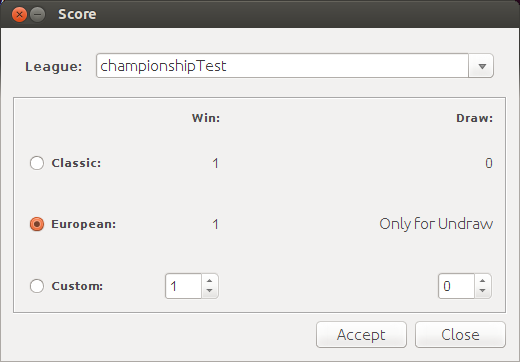
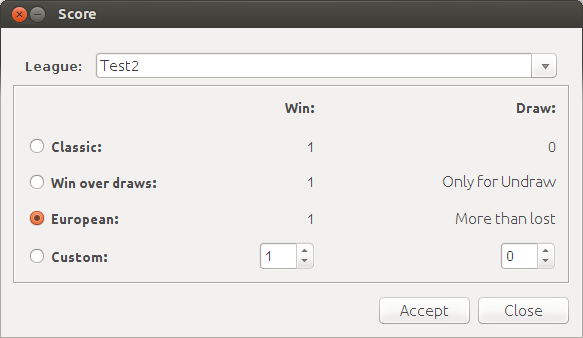
New score rules added to manual.

diff --git a/kendotournament-gui/src/main/java/com/softwaremagico/ktg/gui/ChooseScore.java b/kendotournament-gui/src/main/java/com/softwaremagico/ktg/gui/ChooseScore.java
@@ -30,7 +30,6 @@ import com.softwaremagico.ktg.language.Translator;
 import com.softwaremagico.ktg.persistence.TournamentPool;
 import com.softwaremagico.ktg.tournament.ScoreType;
 import com.softwaremagico.ktg.tournament.TournamentScore;
-
 import java.awt.Toolkit;
 import java.sql.SQLException;
 import java.util.List;
@@ -59,7 +58,7 @@ public class ChooseScore extends javax.swing.JFrame {
         trans = LanguagePool.getTranslator("gui.xml");
         this.setTitle(trans.getTranslatedText("Hits"));
         ClassicRadioButton.setText(trans.getTranslatedText("ClassicRadioButton"));
-        InternationalRadioButton.setText(trans.getTranslatedText("InernationlRadioButton"));
+        WinOverDrawsRadioButton.setText(trans.getTranslatedText("WinOverDrawsRadioButton"));
         CustomRadioButton.setText(trans.getTranslatedText("CustomRadioButton"));
         EuropeanRadioButton.setText(trans.getTranslatedText("EuropeanRadioButton"));
         WinLabel.setText(trans.getTranslatedText("WinTag"));
@@ -79,10 +78,10 @@ public class ChooseScore extends javax.swing.JFrame {
                 return EuropeanRadioButton;
             case CLASSIC:
                 return ClassicRadioButton;
-            case INTERNATIONAL:
-                return InternationalRadioButton;
+            case WIN_OVER_DRAWS:
+                return WinOverDrawsRadioButton;
         }
-        return InternationalRadioButton;
+        return WinOverDrawsRadioButton;
     }
 
     private void selectStyle() {
@@ -106,8 +105,8 @@ public class ChooseScore extends javax.swing.JFrame {
     }
 
     private ScoreType getStyle() {
-        if (InternationalRadioButton.isSelected()) {
-            return ScoreType.INTERNATIONAL;
+        if (WinOverDrawsRadioButton.isSelected()) {
+            return ScoreType.WIN_OVER_DRAWS;
         }
         if (CustomRadioButton.isSelected()) {
             return ScoreType.CUSTOM;
@@ -168,7 +167,7 @@ public class ChooseScore extends javax.swing.JFrame {
         TournamentComboBox = new javax.swing.JComboBox();
         TournamentLabel = new javax.swing.JLabel();
         ScorePanel = new javax.swing.JPanel();
-        InternationalRadioButton = new javax.swing.JRadioButton();
+        WinOverDrawsRadioButton = new javax.swing.JRadioButton();
         CustomRadioButton = new javax.swing.JRadioButton();
         WinSpinner = new javax.swing.JSpinner();
         jLabel7 = new javax.swing.JLabel();
@@ -205,9 +204,9 @@ public class ChooseScore extends javax.swing.JFrame {
 
         ScorePanel.setBorder(javax.swing.BorderFactory.createEtchedBorder());
 
-        ScoreGroup.add(InternationalRadioButton);
-        InternationalRadioButton.setFont(new java.awt.Font("Ubuntu", 1, 14)); // NOI18N
-        InternationalRadioButton.setText("International");
+        ScoreGroup.add(WinOverDrawsRadioButton);
+        WinOverDrawsRadioButton.setFont(new java.awt.Font("Ubuntu", 1, 14)); // NOI18N
+        WinOverDrawsRadioButton.setText("Wins Over Draws");
 
         ScoreGroup.add(CustomRadioButton);
         CustomRadioButton.setFont(new java.awt.Font("Ubuntu", 1, 14)); // NOI18N
@@ -264,7 +263,7 @@ public class ChooseScore extends javax.swing.JFrame {
                 .addGroup(ScorePanelLayout.createParallelGroup(javax.swing.GroupLayout.Alignment.TRAILING, false)
                     .addGroup(ScorePanelLayout.createSequentialGroup()
                         .addGroup(ScorePanelLayout.createParallelGroup(javax.swing.GroupLayout.Alignment.LEADING)
-                            .addComponent(InternationalRadioButton)
+                            .addComponent(WinOverDrawsRadioButton)
                             .addComponent(EuropeanRadioButton)
                             .addComponent(CustomRadioButton))
                         .addGap(100, 100, 100)
@@ -277,21 +276,14 @@ public class ChooseScore extends javax.swing.JFrame {
                         .addComponent(ClassicRadioButton)
                         .addPreferredGap(javax.swing.LayoutStyle.ComponentPlacement.RELATED, javax.swing.GroupLayout.DEFAULT_SIZE, Short.MAX_VALUE)
                         .addComponent(jLabel2)))
+                .addPreferredGap(javax.swing.LayoutStyle.ComponentPlacement.RELATED, 127, Short.MAX_VALUE)
                 .addGroup(ScorePanelLayout.createParallelGroup(javax.swing.GroupLayout.Alignment.LEADING)
-                    .addGroup(ScorePanelLayout.createSequentialGroup()
-                        .addPreferredGap(javax.swing.LayoutStyle.ComponentPlacement.RELATED, 109, Short.MAX_VALUE)
-                        .addGroup(ScorePanelLayout.createParallelGroup(javax.swing.GroupLayout.Alignment.LEADING)
-                            .addComponent(InternationalUndrawLabel, javax.swing.GroupLayout.DEFAULT_SIZE, javax.swing.GroupLayout.DEFAULT_SIZE, Short.MAX_VALUE)
-                            .addGroup(ScorePanelLayout.createParallelGroup(javax.swing.GroupLayout.Alignment.LEADING)
-                                .addComponent(HierarchicalDrawLabel, javax.swing.GroupLayout.Alignment.TRAILING)
-                                .addComponent(DrawSpinner, javax.swing.GroupLayout.Alignment.TRAILING, javax.swing.GroupLayout.PREFERRED_SIZE, 56, javax.swing.GroupLayout.PREFERRED_SIZE)))
-                        .addGap(0, 2, Short.MAX_VALUE))
-                    .addGroup(javax.swing.GroupLayout.Alignment.TRAILING, ScorePanelLayout.createSequentialGroup()
-                        .addPreferredGap(javax.swing.LayoutStyle.ComponentPlacement.RELATED, javax.swing.GroupLayout.DEFAULT_SIZE, Short.MAX_VALUE)
-                        .addGroup(ScorePanelLayout.createParallelGroup(javax.swing.GroupLayout.Alignment.LEADING)
-                            .addComponent(jLabel3, javax.swing.GroupLayout.Alignment.TRAILING)
-                            .addComponent(DrawLabel, javax.swing.GroupLayout.Alignment.TRAILING))))
-                .addContainerGap())
+                    .addComponent(InternationalUndrawLabel, javax.swing.GroupLayout.Alignment.TRAILING, javax.swing.GroupLayout.DEFAULT_SIZE, javax.swing.GroupLayout.DEFAULT_SIZE, Short.MAX_VALUE)
+                    .addComponent(HierarchicalDrawLabel, javax.swing.GroupLayout.Alignment.TRAILING)
+                    .addComponent(DrawSpinner, javax.swing.GroupLayout.Alignment.TRAILING, javax.swing.GroupLayout.PREFERRED_SIZE, 56, javax.swing.GroupLayout.PREFERRED_SIZE)
+                    .addComponent(jLabel3, javax.swing.GroupLayout.Alignment.TRAILING)
+                    .addComponent(DrawLabel, javax.swing.GroupLayout.Alignment.TRAILING))
+                .addContainerGap(javax.swing.GroupLayout.DEFAULT_SIZE, Short.MAX_VALUE))
         );
 
         ScorePanelLayout.linkSize(javax.swing.SwingConstants.HORIZONTAL, new java.awt.Component[] {DrawSpinner, WinSpinner});
@@ -310,7 +302,7 @@ public class ChooseScore extends javax.swing.JFrame {
                     .addComponent(jLabel3))
                 .addPreferredGap(javax.swing.LayoutStyle.ComponentPlacement.UNRELATED)
                 .addGroup(ScorePanelLayout.createParallelGroup(javax.swing.GroupLayout.Alignment.CENTER)
-                    .addComponent(InternationalRadioButton)
+                    .addComponent(WinOverDrawsRadioButton)
                     .addComponent(jLabel7)
                     .addComponent(InternationalUndrawLabel))
                 .addPreferredGap(javax.swing.LayoutStyle.ComponentPlacement.UNRELATED)
@@ -348,7 +340,7 @@ public class ChooseScore extends javax.swing.JFrame {
                 .addContainerGap()
                 .addComponent(TournamentLabel)
                 .addPreferredGap(javax.swing.LayoutStyle.ComponentPlacement.UNRELATED)
-                .addComponent(TournamentComboBox, 0, 384, Short.MAX_VALUE)
+                .addComponent(TournamentComboBox, 0, 430, Short.MAX_VALUE)
                 .addContainerGap())
             .addComponent(ScorePanel, javax.swing.GroupLayout.Alignment.TRAILING, javax.swing.GroupLayout.DEFAULT_SIZE, javax.swing.GroupLayout.DEFAULT_SIZE, Short.MAX_VALUE)
             .addGroup(javax.swing.GroupLayout.Alignment.TRAILING, jPanel1Layout.createSequentialGroup()
@@ -452,13 +444,13 @@ public class ChooseScore extends javax.swing.JFrame {
     private javax.swing.JSpinner DrawSpinner;
     private javax.swing.JRadioButton EuropeanRadioButton;
     private javax.swing.JLabel HierarchicalDrawLabel;
-    private javax.swing.JRadioButton InternationalRadioButton;
     private javax.swing.JLabel InternationalUndrawLabel;
     private javax.swing.ButtonGroup ScoreGroup;
     private javax.swing.JPanel ScorePanel;
     private javax.swing.JComboBox TournamentComboBox;
     private javax.swing.JLabel TournamentLabel;
     private javax.swing.JLabel WinLabel;
+    private javax.swing.JRadioButton WinOverDrawsRadioButton;
     private javax.swing.JSpinner WinSpinner;
     private javax.swing.JLabel jLabel1;
     private javax.swing.JLabel jLabel2;

diff --git a/kendotournament-core/src/main/java/com/softwaremagico/ktg/tournament/ScoreType.java b/kendotournament-core/src/main/java/com/softwaremagico/ktg/tournament/ScoreType.java
@@ -6,7 +6,7 @@ import java.util.List;
 
 public enum ScoreType {
 
-    CLASSIC("classic"), INTERNATIONAL("international"), EUROPEAN("european"), CUSTOM("custom");
+    CLASSIC("classic"), WIN_OVER_DRAWS("winOverDraws"), EUROPEAN("european"), CUSTOM("custom");
     public static ScoreType DEFAULT = ScoreType.EUROPEAN;
     private String tag;
 
@@ -24,8 +24,8 @@ public enum ScoreType {
                 return new ScoreOfTeamClassic(team, fights);
             case CUSTOM:
                 return new ScoreOfTeamCustom(team, fights);
-            case INTERNATIONAL:
-                return new ScoreOfTeamInternational(team, fights);
+            case WIN_OVER_DRAWS:
+                return new ScoreOfTeamWinOverDraws(team, fights);
             case EUROPEAN:
             default:
                 return new ScoreOfTeamEuropean(team, fights);

diff --git a/kendotournament-core/src/main/java/com/softwaremagico/ktg/core/Tournament.java b/kendotournament-core/src/main/java/com/softwaremagico/ktg/core/Tournament.java
@@ -50,7 +50,7 @@ public class Tournament implements Comparable<Tournament> {
     private TournamentType type; // simple, championship, custom, personalized, tree
     // private float scoreForWin = 1;
     // private float scoreForDraw = 0;
-    // private ScoreType choosedScore = ScoreType.INTERNATIONAL;
+    // private ScoreType choosedScore = ScoreType.WIN_OVER_DRAWS;
     private TournamentScore tournamentScore;
 
     static {
@@ -64,7 +64,7 @@ public class Tournament implements Comparable<Tournament> {
         howManyTeamsOfGroupPassToTheTree = passingTeams;
         this.teamSize = teamSize;
         this.type = type;
-        tournamentScore = new TournamentScore(ScoreType.INTERNATIONAL, 1, 1);
+        tournamentScore = new TournamentScore(ScoreType.WIN_OVER_DRAWS, 1, 1);
     }
 
     public Photo getBanner() {

diff --git a/kendotournament-core/src/main/java/com/softwaremagico/ktg/tournament/ScoreOfTeamWinOverDraws.java b/kendotournament-core/src/main/java/com/softwaremagico/ktg/tournament/ScoreOfTeamWinOverDraws.java
@@ -4,9 +4,9 @@ import com.softwaremagico.ktg.core.Fight;
 import com.softwaremagico.ktg.core.Team;
 import java.util.List;
 
-public class ScoreOfTeamInternational extends ScoreOfTeam {
+public class ScoreOfTeamWinOverDraws extends ScoreOfTeam {
 
-    public ScoreOfTeamInternational(Team team, List<Fight> fights) {
+    public ScoreOfTeamWinOverDraws(Team team, List<Fight> fights) {
         super(team, fights);
     }
 
